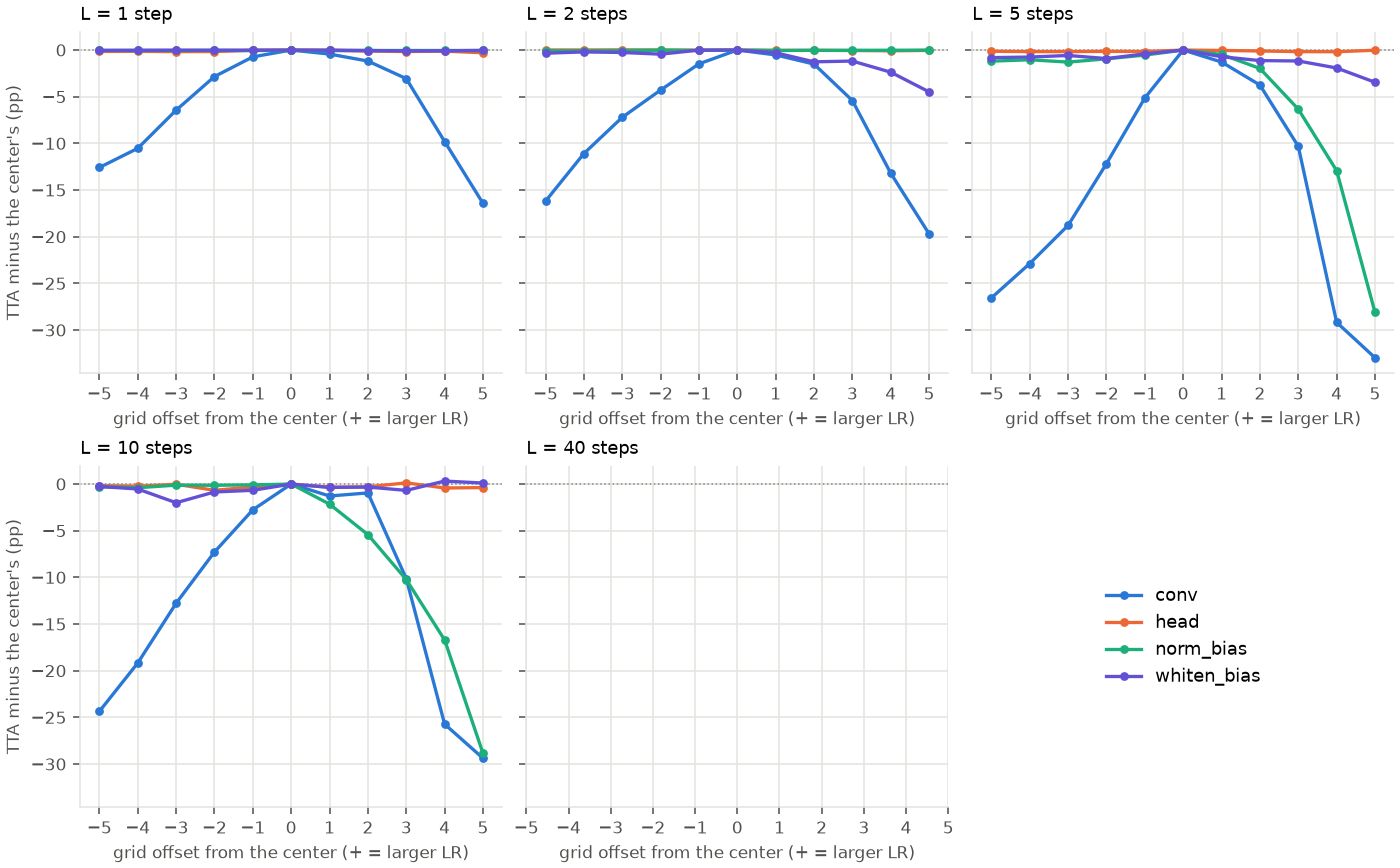
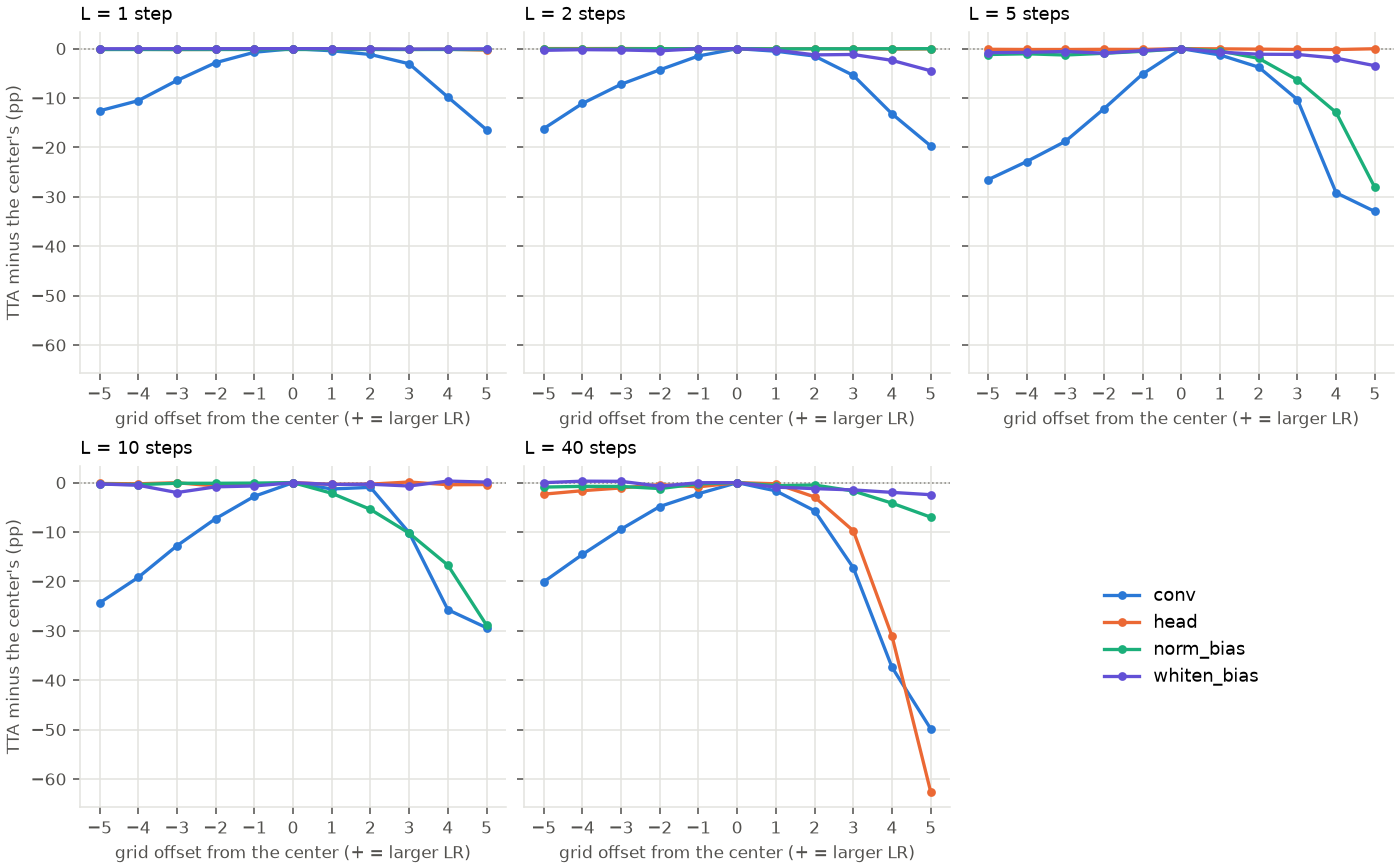
cooldown_study.pdf: updated (306 held-out results)

diff --git a/research/make_cooldown_study.py b/research/make_cooldown_study.py
@@ -294,7 +294,7 @@ for length, r in runs.items():
 
 
 # Experiment 3: representation quality of schedule families.
-families = fam.load()
+families = fam.load("auto_gfam")
 fixed = report_data.fixed_runs()
 
 
@@ -357,34 +357,41 @@ for f in fam.FAMILIES:
     rows.append(cells)
 story += [P("Best parameter values (LR values in order; power: lr, p)", "h2"), table(rows, [3.6 * cm] + [3.35 * cm] * 4)]
 
-fig, axes = plt.subplots(2, 2, figsize=(10, 6.6), layout="constrained", sharey=True)
 fam_colors = {"intervals5": "#2a78d6", "linear": "#8c8b86", "power": "#eb6834", "knots2": "#1baf7a",
               "knots3": "#6250d6", "knots5": "#e34948"}
-steps = list(range(200))
-for ax, c in zip(axes.flat, fam.CONDITIONS):
-    ax.set_title(fam.CONDITION_LABELS[c], loc="left", fontsize=9.5)
-    ax.plot(steps, [0.22 * (1 - st / 200) for st in steps], color="#0b0b0b", linewidth=2.2,
-            label="target: baseline applied LR")
-    transform = tc.LR_TRANSFORMS.get(c.lstrip("_"))
-    for f in fam.FAMILIES:
-        r = families.get(f"auto_gfam_{f}_bs2000{c}")
-        if r is None or "final_values" not in r:
-            continue
-        lines = tc.family_schedule(tc.GLOBAL_FAMILIES[f], r["final_values"], 200)
-        applied = [tc.schedule_value_at_step(lines, st) * (tc.lr_transform_factor(transform, st, 200)
-                                                           if transform else 1.0) for st in steps]
-        ax.plot(steps, applied, color=fam_colors[f], linewidth=1.3, label=fam.FAMILY_LABELS[f])
-    ax.set_xlabel("training step")
-for ax in axes[:, 0]:
-    ax.set_ylabel("applied conv LR")
-handles = {}
-for ax in axes.flat:
-    for h, label in zip(*ax.get_legend_handles_labels()):
-        handles.setdefault(label, h)
-fig.legend(handles.values(), handles.keys(), loc="outside lower center", ncol=4, frameon=False, fontsize=8)
+
+
+def family_figure(results, prefix, path):
+    """Applied conv LR (spec x transform) of each family's best schedule, one panel per condition."""
+    fig, axes = plt.subplots(2, 2, figsize=(10, 6.6), layout="constrained", sharey=True)
+    steps = list(range(200))
+    for ax, c in zip(axes.flat, fam.CONDITIONS):
+        ax.set_title(fam.CONDITION_LABELS[c], loc="left", fontsize=9.5)
+        ax.plot(steps, [0.22 * (1 - st / 200) for st in steps], color="#0b0b0b", linewidth=2.2,
+                label="target: baseline applied LR")
+        transform = tc.LR_TRANSFORMS.get(c.lstrip("_"))
+        for f in fam.FAMILIES:
+            r = results.get(f"{prefix}_{f}_bs2000{c}")
+            if r is None or "final_values" not in r:
+                continue
+            lines = tc.family_schedule(tc.GLOBAL_FAMILIES[f], r["final_values"], 200)
+            applied = [tc.schedule_value_at_step(lines, st) * (tc.lr_transform_factor(transform, st, 200)
+                                                               if transform else 1.0) for st in steps]
+            ax.plot(steps, applied, color=fam_colors[f], linewidth=1.3, label=fam.FAMILY_LABELS[f])
+        ax.set_xlabel("training step")
+    for ax in axes[:, 0]:
+        ax.set_ylabel("applied conv LR")
+    handles = {}
+    for ax in axes.flat:
+        for h, label in zip(*ax.get_legend_handles_labels()):
+            handles.setdefault(label, h)
+    fig.legend(handles.values(), handles.keys(), loc="outside lower center", ncol=4, frameon=False, fontsize=8)
+    fig.savefig(path, dpi=140)
+    plt.close(fig)
+
+
 fam_path = os.path.join(REPO, "plots", "family_study.png")
-fig.savefig(fam_path, dpi=140)
-plt.close(fig)
+family_figure(families, "auto_gfam", fam_path)
 fam_img = Image(fam_path)
 fam_img.drawWidth, fam_img.drawHeight = 17 * cm, 17 * cm * fam_img.imageHeight / fam_img.imageWidth
 story += [keep([fam_img, P("Figure 3. Applied conv LR (spec x transform) of each family's best schedule; "
@@ -835,6 +842,72 @@ story += [keep([img, P("Figure 8. The rule's pick per L (conv at three margins, 
 story += observations("largest_within_observations.txt")
 
 
+# Experiment 9: Experiment 3 redone with the noise-aware global_neighbour search (noisy_family).
+nfam = fam.load("auto_nfam")
+story += [
+    P("Experiment 9. Representation quality of schedule families, noise-aware search", "h1"),
+    P("Question", "h2"),
+    P("Experiment 3's search scored every candidate on one run (seed 0), so it climbed on seed noise and stopped "
+      "at schedules that were lucky on seed 0 (e.g. 5 constant intervals: 93.99 on seed 0, 93.62 held-out). With a "
+      "search that only moves to a neighbour that is statistically better given the seed noise, and adds seeds "
+      "until it can tell, how close does each family get?"),
+    P("Setup", "h2"),
+    table([
+        ["Item", "Value"],
+        ["As Experiment 3", "baseline_bs2000, conv only (the others on the baseline); the same families, conditions "
+                            "(no transform, ramp, reverse ramp, wave), grids (LR x0.6, p x0.8) and starts (the "
+                            "oracle projected onto the family); start and final retrained on held-out seeds 100-107"],
+        ["Search", "Global neighbour (noisy_family): each round compares the current schedule with all its "
+                   "neighbours (each parameter one grid step up or down; k = 2 for linear, 4 for power and 2 knots, "
+                   "6 for 3 knots, 10 for 5 intervals and 5 knots). Every point's score is its mean TTA over full "
+                   "runs on search seeds 0, 1, 2, ..."],
+        ["Decision", "d = neighbour mean - current mean, SE = 0.12 pp x sqrt(1/n_neighbour + 1/n_current) (the "
+                     "single-run SD of Experiment 6, runs treated as independent). One-sided 80% bounds, "
+                     "Bonferroni over the k neighbours: z = 1.28 / 1.64 / 1.83 / 2.05 for k = 2 / 4 / 6 / 10. "
+                     "Better: d - z SE &gt; 0. Ruled out: d + z SE &lt; 0. Otherwise undecided"],
+        ["Moves and seeds", "If any neighbour is better, move to the better one with the highest mean. Else run "
+                            "one more seed on the current schedule and on every undecided neighbour, and repeat. "
+                            "Stop when every neighbour is ruled out, or at 8 seeds per point (undecided neighbours "
+                            "then count as not better)"],
+    ], [3.3 * cm, 13.7 * cm]),
+]
+rows = [["Family", *(fam.CONDITION_LABELS[c] for c in fam.CONDITIONS)]]
+for f in fam.FAMILIES:
+    cells = [fam.FAMILY_LABELS[f]]
+    for c in fam.CONDITIONS:
+        r = nfam.get(f"auto_nfam_{f}_bs2000{c}")
+        old = families.get(f"auto_gfam_{f}_bs2000{c}")
+        if r is None or "final" not in r:
+            cells.append("running")
+        else:
+            cells.append(f"<b>{r['final'][0]:.2f}</b> (Exp. 3: {old['final'][0]:.2f}; start {r['start'][0]:.2f}; "
+                         f"{r.get('moves', '?')} moves, {r['evaluations']} runs)")
+    rows.append(cells)
+story += [P("Held-out TTA of the final schedule (Experiment 3's for comparison; the start; search cost)", "h2"),
+          table(rows, [3.6 * cm] + [3.35 * cm] * 4),
+          P("Target: the baseline's 93.92 on the held-out seeds; do-nothing references as in Experiment 3 "
+            "(ramp 93.42, reverse ramp 93.57, wave 93.72).", "small")]
+rows = [["Family", *(fam.CONDITION_LABELS[c] for c in fam.CONDITIONS)]]
+for f in fam.FAMILIES:
+    cells = [fam.FAMILY_LABELS[f]]
+    for c in fam.CONDITIONS:
+        r = nfam.get(f"auto_nfam_{f}_bs2000{c}")
+        cells.append("running" if r is None or "final_values" not in r else
+                     ", ".join(f"{v:g}" for v in r["final_values"].values())
+                     + f" ({r.get('search_seeds', '?')} seeds; {r.get('stop', '?').replace('_', ' ')})")
+    rows.append(cells)
+story += [P("Final parameter values (seeds behind the final mean; why the search stopped)", "h2"),
+          table(rows, [3.6 * cm] + [3.35 * cm] * 4)]
+if any("final_values" in r for r in nfam.values()):
+    nfam_path = os.path.join(REPO, "plots", "family_study_noisy.png")
+    family_figure(nfam, "auto_nfam", nfam_path)
+    img = Image(nfam_path)
+    img.drawWidth, img.drawHeight = 17 * cm, 17 * cm * img.imageHeight / img.imageWidth
+    story += [keep([img, P("Figure 9. Applied conv LR of each family's final schedule (noise-aware search); the black "
+                           "line is the baseline's applied LR.", "small")])]
+story += observations("noisy_family_observations.txt")
+
+
 def attach_headings(flowables):
     """Keep each subheading on the same page as the table / figure that follows it."""
     out = []
@@ -863,3 +936,4 @@ SimpleDocTemplate(OUT, pagesize=A4, leftMargin=2 * cm, rightMargin=2 * cm, topMa
                   bottomMargin=1.8 * cm, title="Cooldown study").build(story, onFirstPage=footer,
                                                                        onLaterPages=footer)
 print(OUT)
+

diff --git a/research/family_study.py b/research/family_study.py
@@ -15,17 +15,24 @@ CONDITIONS = ("", "_ramp", "_rampdown", "_wave")
 CONDITION_LABELS = {"": "No transform", "_ramp": "Ramp", "_rampdown": "Reverse ramp", "_wave": "Wave"}
 
 
-def load():
+def load(prefix):
+    """Searches named <prefix>_<family>_bs2000<condition> (auto_gfam: Experiment 3, auto_nfam: 9)."""
     out = {}
     for path in sorted(glob.glob(os.path.join(REPO, "logs", "cifar_baseline_*.log"))):
         text = open(path, errors="replace").read()
-        m = re.search(r"^auto_result run=(auto_gfam_\S+)_seed0 .*?search_seconds=(\S+) evaluations=(\d+)",
+        m = re.search(rf"^auto_result run=({prefix}_\S+)_seed0 .*?search_seconds=(\S+) evaluations=(\d+)",
                       text, re.M)
         if not m:
             continue
         name = m.group(1)
         own = re.search(rf"^auto_result run={name}_seed0 .*?tta_val_acc=(\S+)", text, re.M)
         row = dict(seconds=float(m.group(2)), evaluations=int(m.group(3)), own=100 * float(own.group(1)))
+        stop = re.search(rf"^search_stop run={name}_seed0 reason=(\S+) moves=(\d+)", text, re.M)
+        if stop:
+            row["stop"], row["moves"] = stop.group(1), int(stop.group(2))
+        seeds = re.search(rf"^auto_result run={name}_seed0 .*?search_seeds=(\d+)", text, re.M)
+        if seeds:
+            row["search_seeds"] = int(seeds.group(1))
         for label, key in (("start", "start_heldout_result"), ("final", "heldout_result")):
             h = re.search(rf"^{key} run={name}_seed0 .*?tta_val_acc_mean=(\S+) tta_val_acc_std=(\S+)",
                           text, re.M)
